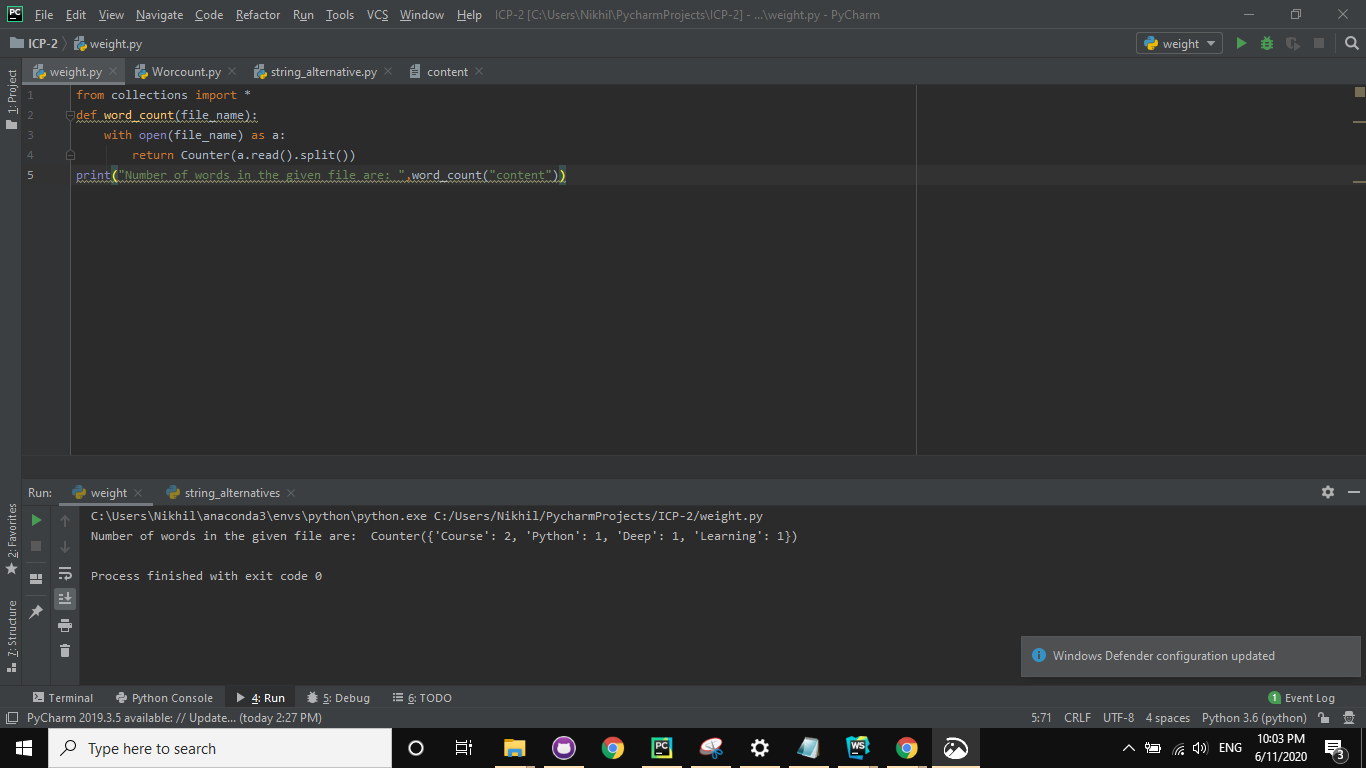
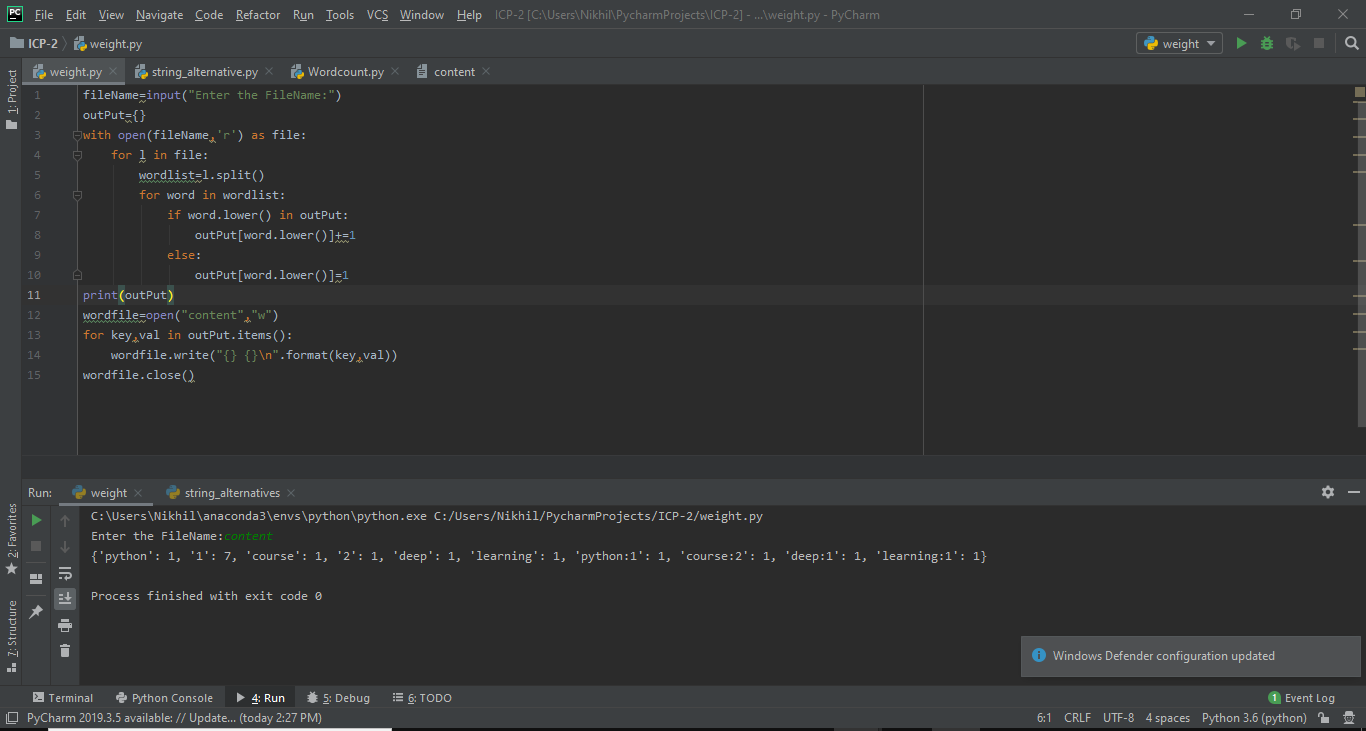
icp2

diff --git a/ICP-2/Source Code/Wordcount.py b/ICP-2/Source Code/Wordcount.py
@@ -1,5 +1,15 @@
-from collections import *
-def word_count(file_name):
-    with open(file_name) as a:
-        return Counter(a.read().split())
-print("Number of words in the given file are: ",word_count("content"))
+fileName=input("Enter the FileName:")
+outPut={}
+with open(fileName,'r') as file:
+    for l in file:
+        wordlist=l.split()
+        for word in wordlist:
+            if word.lower() in outPut:
+                outPut[word.lower()]+=1
+            else:
+                outPut[word.lower()]=1
+print(outPut)
+wordfile=open("content","w")
+for key,val in outPut.items():
+    wordfile.write("{} {}\n".format(key,val))
+wordfile.close()
